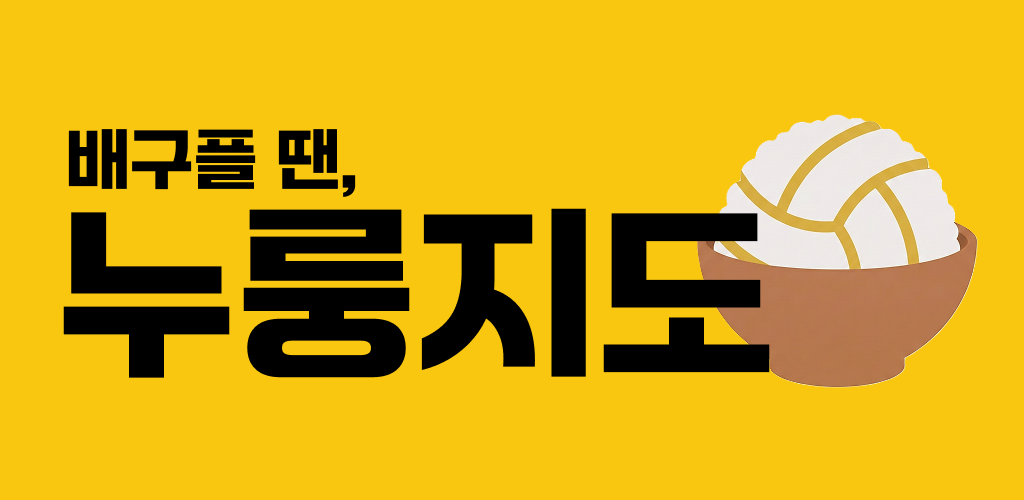
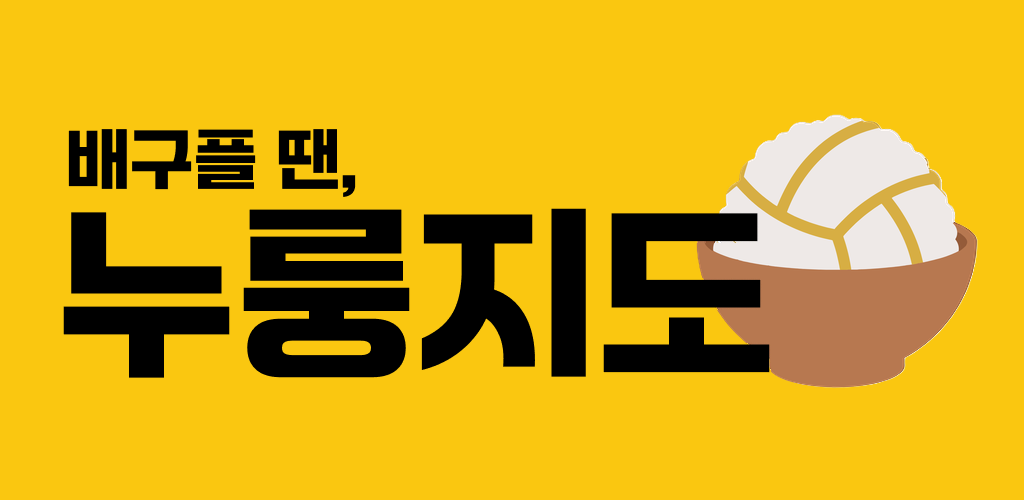
feat(assets): 웹 로고·PWA 아이콘 PNG를 새 로고로 교체
assets/logo/nulloongzido-logo.svg(조각 크기가 같은 배구공 이음선)에서 다시 뽑아 같은 크기·위치로
바꿨다: assets/logo-512.png(공유 카드), icon-192/512(PWA, 흰 바탕), logo.png, nulloongzido logo_512px.png
(파비콘·og:image·카카오 공유 썸네일), app_ui 로고 2종. app_ui/Group 7.png 피처 그래픽은 로고 앞의
'누룽지도' 글자를 그대로 두고 로고만 바꿨다. 비교용으로 이전 로고를 docs/logo-legacy-512.png 로 남김.

Claude-Session: https://claude.ai/code/session_019Jth2i6XR1aaqqSu7PWwxn

diff --git a/docs/logo-concepts.html b/docs/logo-concepts.html
@@ -77,14 +77,14 @@ ol.todo li::marker { color: var(--muted); }
   <header>
     <div class="eyebrow">NULLOONGZI-DO · LOGO PARTS · 초안</div>
     <h1>누룽지도 로고 시트</h1>
-    <p class="lead">기준은 지금 로고다. 그릇·누룽지 윤곽·색은 2048px 원본을 곡선으로 그대로 다시 그렸고, 공의 이음선은 조각 크기가 모두 같은 배구공 구조로 바꿨다(원본 자세에 가장 가깝게). 부품·각도·조합은 모두 이 새 로고에서 나온다.</p>
+    <p class="lead">기준은 이전 로고다. 그릇·누룽지 윤곽·색은 2048px 원본을 곡선으로 그대로 다시 그렸고, 공의 이음선은 조각 크기가 모두 같은 배구공 구조로 바꿨다(원본 자세에 가장 가깝게). 부품·각도·조합은 모두 이 새 로고에서 나온다.</p>
   </header>
 
   <section>
     <div class="eyebrow">01 · 원본과 벡터</div>
-    <h2>지금 로고와 새 로고</h2>
+    <h2>이전 로고와 새 로고</h2>
     <div class="grid two">
-      <figure><img src="../assets/logo-512.png" alt="지금 쓰는 로고 비트맵"><figcaption><b>지금 로고</b><span>assets/logo-512.png (비트맵)</span></figcaption></figure>
+      <figure><img src="logo-legacy-512.png" alt="이전 로고"><figcaption><b>이전 로고</b><span>2026-10 이전. docs/logo-legacy-512.png</span></figcaption></figure>
       <figure><svg data-draw="lockup" viewBox="0 0 200 200" role="img" aria-label="새 로고"></svg><figcaption><b>새 로고 (SVG)</b><span>그릇·누룽지 윤곽·색은 원본 그대로, 이음선만 조각 크기가 모두 같은 배구공으로 바꿨다. <code>assets/logo/nulloongzido-logo.svg</code></span></figcaption></figure>
     </div>
   </section>

diff --git a/docs/design-system.md b/docs/design-system.md
@@ -88,8 +88,10 @@
 | 묻는 팝업 | 가운데 흰 카드 · 모서리 `radius-dialog` 20 · 제목 17/800. **버튼엔 누르면 일어나는 일**('팀 지우기', '로그아웃' — '확인'만 쓰지 않음). 되돌릴 수 없는 일은 확인 버튼 `urgent-ink` + 처음 포커스 '취소'. 입력이 틀리면 팝업을 닫지 않고 칸 아래에. 바깥 누르기·Esc·뒤로가기 = 취소. 브라우저 기본 창(alert·confirm·prompt)은 쓰지 않는다 | `window.nzConfirm` · `nzPrompt` (`js/dialog.js`) | `AlertDialog` (`theme.dart` `dialogTheme` · 글자 버튼 다크) |
 
 - 사진 위 스크림(릴스 커버 그라데이션·이미지 미리보기)만 검정을 허용한다 — 사진 색을 물들이지 않기 위해서.
-- 로고 비트맵: 공유 카드는 두 저장소의 `assets/logo-512.png`(투명, 같은 파일)를 쓴다.
-  원본은 앱 `assets/nulloongzido logo_without bg.png`(2048). 웹 PWA 아이콘은 같은 원본을 흰 바탕에 얹은 `assets/icon-192.png` · `icon-512.png`.
+- 로고 원본은 벡터 `assets/logo/nulloongzido-logo.svg`(2048). 부품은 같은 폴더의 `nulloongzido-ball.svg` · `nulloongzido-bowl.svg`,
+  만든 과정과 각도·조합은 `docs/logo-concepts.html`. 2026-10 공 이음선을 조각 크기가 같은 배구공으로 바꿨다(그릇·누룽지 윤곽·색은 그대로).
+- 로고 비트맵은 모두 이 SVG에서 뽑는다: 공유 카드는 두 저장소의 `assets/logo-512.png`(투명, 같은 파일),
+  앱 `assets/nulloongzido logo_without bg.png`·`assets/icon.png`(2048, 투명), 웹 PWA 아이콘은 흰 바탕에 얹은 `assets/icon-192.png` · `icon-512.png`.
 
 ## 4. 보이스 & 톤
 - **이름**: 서비스는 **누룽지도 / Nulloongzi-do**(영어는 이 표기 하나 — 2026-10 결정, 규칙 테스트가 지킨다). 사람·브랜드는 **누룽지 / Nulloongzi**(인스타·틱톡 @null_oongzi).
